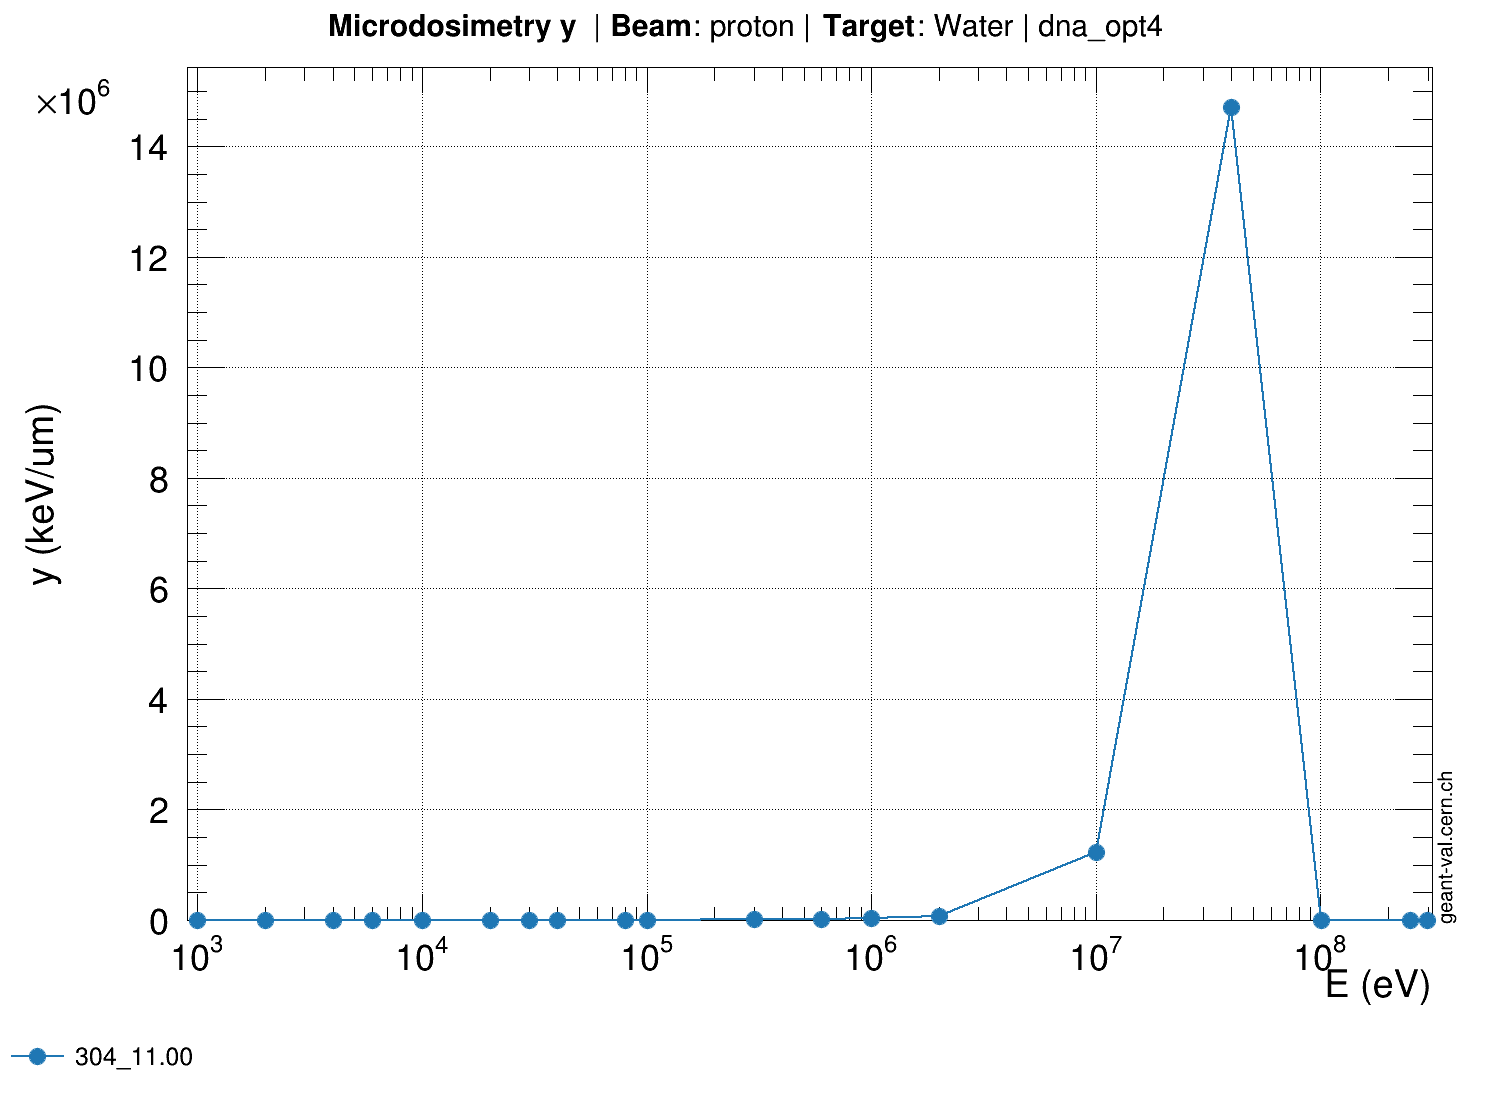
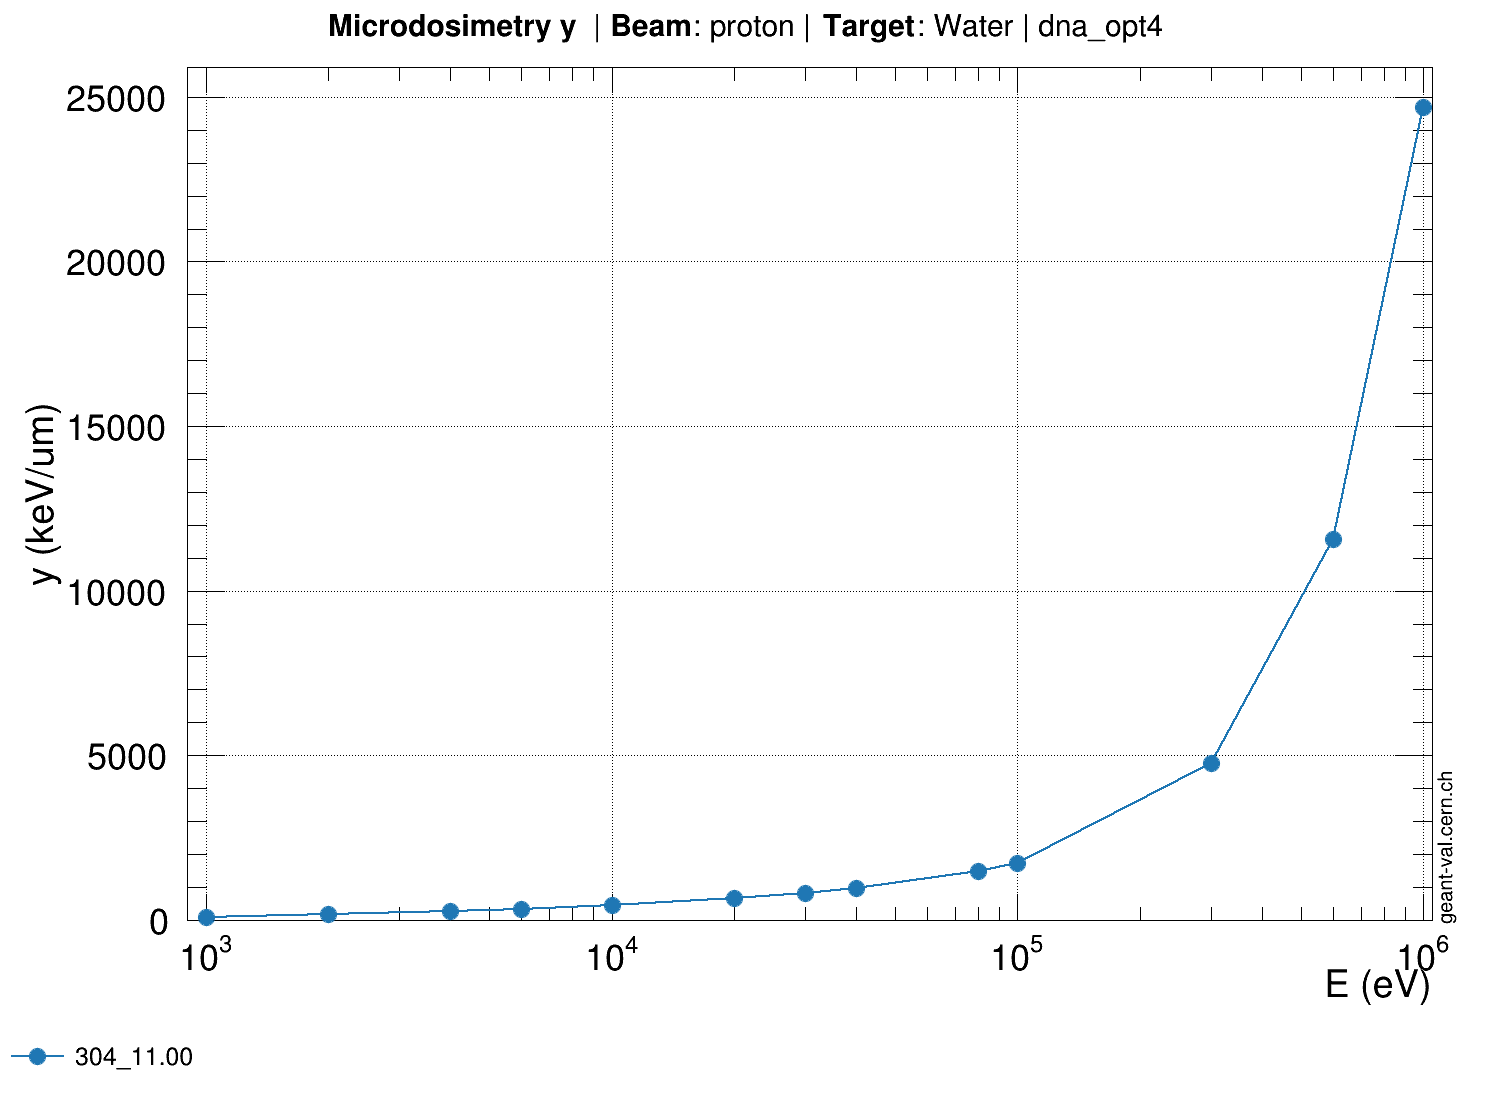
lun. mars 20 12:41:09 CET 2023

diff --git a/assets/OUTPUTJSON/geant4/304_11.00/x86_64/range/proton.conf.c b/assets/OUTPUTJSON/geant4/304_11.00/x86_64/range/proton.conf.c
@@ -90,3 +90,71 @@ double gvp_id-1_yerrors[19] = {
   0,
   0
 };
+// Tool:               GEANT4
+// Version:            304_11.00
+// Model:              dna_opt4
+// Observable:         microdosimetry y
+// Target:             Water
+// Beam Particle:      proton
+// Secondary Particle: None
+
+double gvp_id-1_x[13] = {
+  1000,
+  2000,
+  4000,
+  6000,
+  10000,
+  20000,
+  30000,
+  40000,
+  80000,
+  100000,
+  300000,
+  600000,
+  1e+06
+};
+double gvp_id-1_y[13] = {
+  97.244,
+  162.291,
+  259.532,
+  333.001,
+  450.491,
+  661.98,
+  824.076,
+  967.225,
+  1468.58,
+  1713.29,
+  4752.09,
+  11555,
+  24687.3
+};
+double gvp_id-1_xerrors[13] = {
+  0,
+  0,
+  0,
+  0,
+  0,
+  0,
+  0,
+  0,
+  0,
+  0,
+  0,
+  0,
+  0
+};
+double gvp_id-1_yerrors[13] = {
+  0,
+  0,
+  0,
+  0,
+  0,
+  0,
+  0,
+  0,
+  0,
+  0,
+  0,
+  0,
+  0
+};
